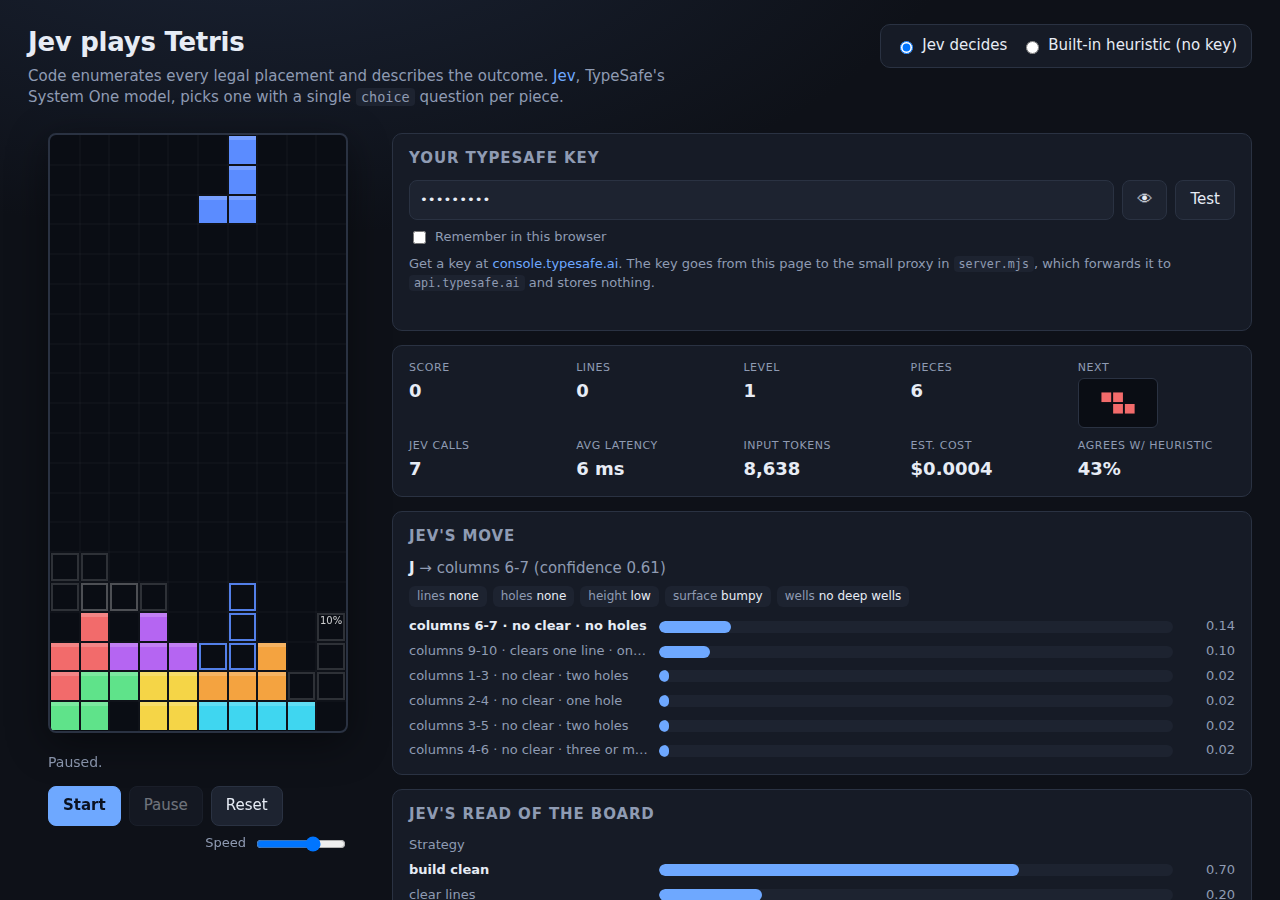
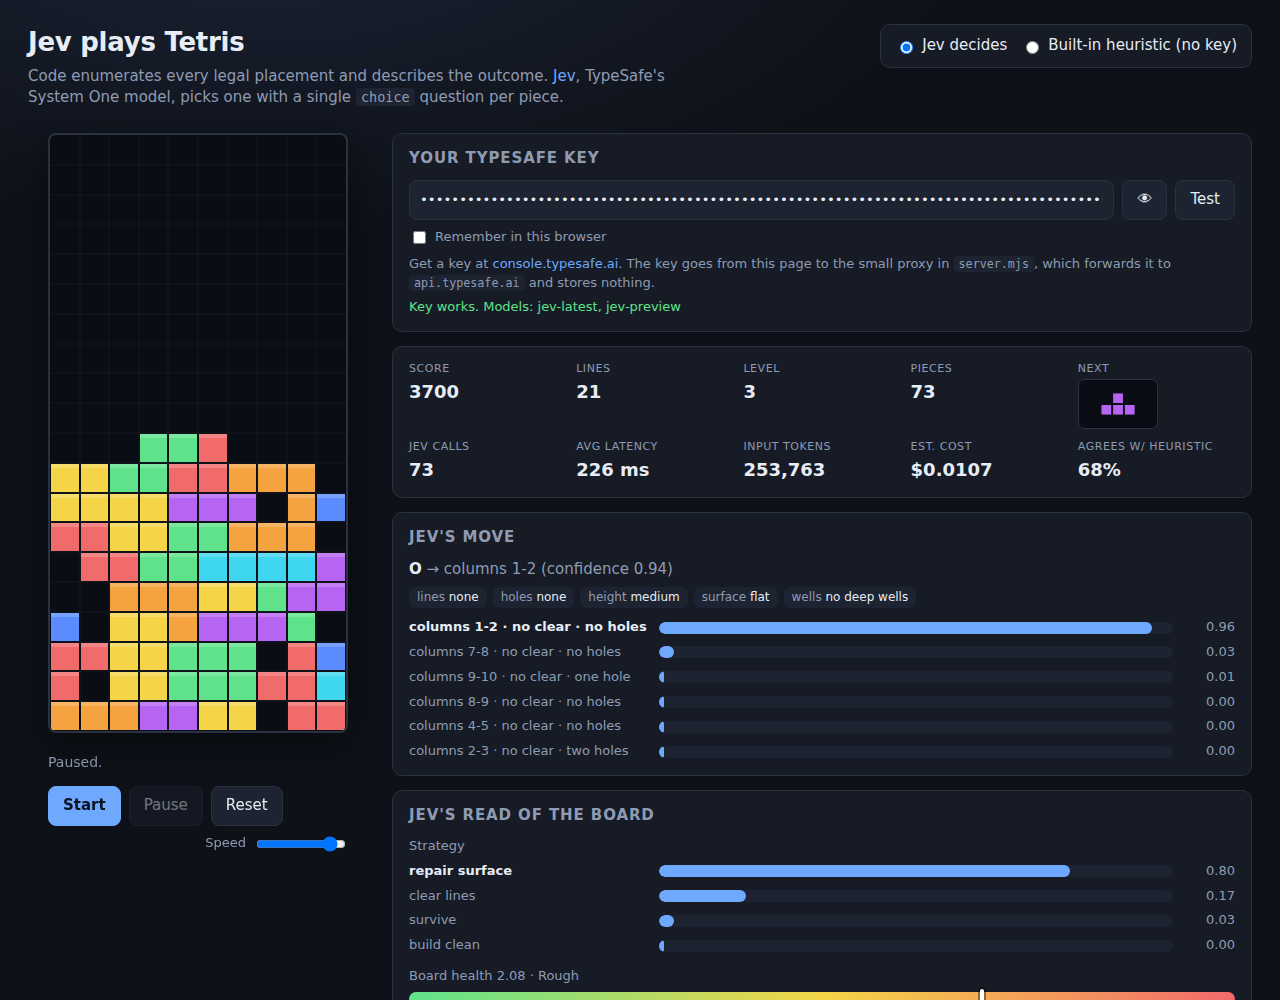
Update screenshot from a real Jev run and note observed play
Claude-Session: https://claude.ai/code/session_016YCduUQvKvzKhRYFEpSHCa

diff --git a/README.md b/README.md
@@ -49,8 +49,14 @@ For every piece:
    distribution is drawn on the board as ghost outlines, so you can see what Jev was torn between.
    A classic hand-tuned heuristic is computed alongside, and the panel shows how often Jev agrees with it.
 
-The model is `jev-latest`. Each move is one request of roughly 1,000 to 2,000 input tokens, which at
-the published price is a few hundredths of a cent.
+The model is `jev-latest`. Each move is one request of roughly 2,500 to 4,000 input tokens (the
+board plus 9 to 34 described options). A 150-piece game measured about 240 ms per move and
+roughly 530k input tokens, which is about two cents at the published price.
+
+Observed play (one 150-piece run): 50 lines, no game over, 69% agreement with the classic
+heuristic, average placement confidence 0.69. Jev takes single-line clears readily and tolerates
+holes more than the heuristic does, so the stack gets rough over time. The `priorities` list in
+`public/jev.js` is where to push it toward cleaner play.
 
 ## Run it
 
